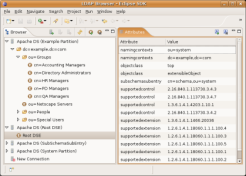
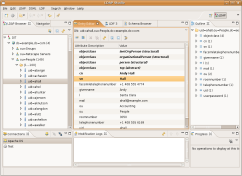
Updating the default perspective of the RCP Application to open the good LDAP Browser. Updating the graphic for LDAP Browser Plugin.
git-svn-id: https://svn.apache.org/repos/asf/directory/trunks@492115 13f79535-47bb-0310-9956-ffa450edef68

diff --git a/ldapstudio/ldapstudio-rcp/src/main/java/org/apache/directory/ldapstudio/view/WelcomeView.java b/ldapstudio/ldapstudio-rcp/src/main/java/org/apache/directory/ldapstudio/view/WelcomeView.java
@@ -78,7 +78,7 @@ public class WelcomeView extends ViewPart
             {
                 PlatformUI.getWorkbench().getActiveWorkbenchWindow().getActivePage().setPerspective(
                     PlatformUI.getWorkbench().getPerspectiveRegistry().findPerspectiveWithId(
-                        "org.apache.directory.ldapstudio.browser.perspective" ) ); //$NON-NLS-1$
+                        "org.apache.directory.ldapstudio.browser.ui.perspective.BrowserPerspective" ) ); //$NON-NLS-1$
             }
         } );
 
